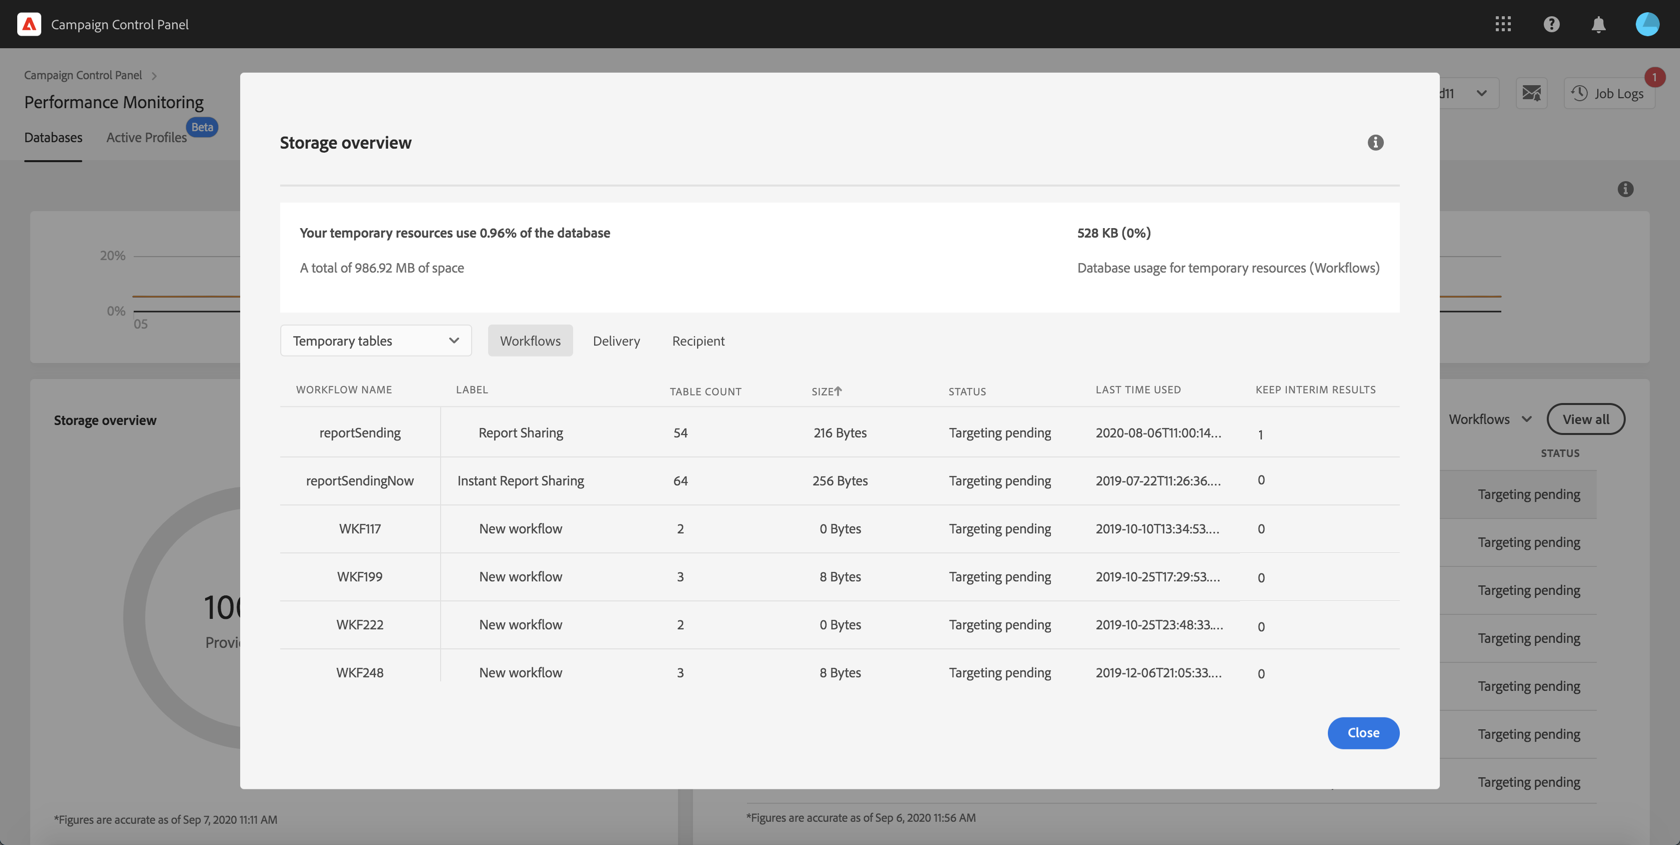
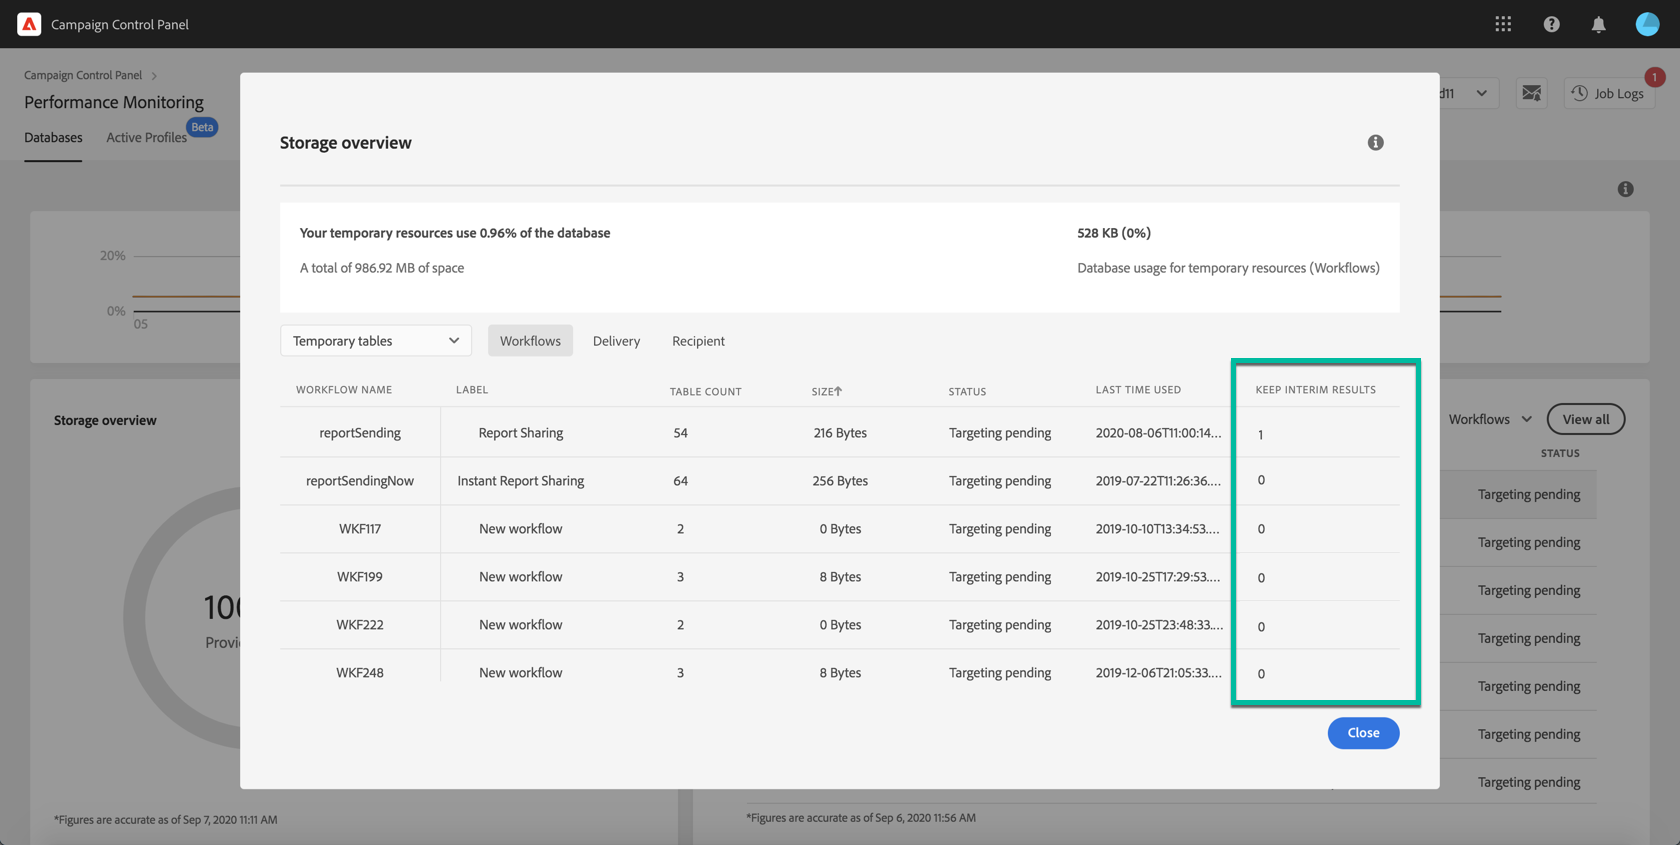
wkf monitoring draft

Changed region(s): [[0.7119, 0.4, 0.8667, 0.8308], [0.7429, 0.8308, 0.8357, 0.8615]]

diff --git a/help/performance-monitoring/using/workflow-monitoring.md b/help/performance-monitoring/using/workflow-monitoring.md
@@ -1,28 +1,41 @@
 ---
-title: About database monitoring
-description: Learn how to monitor workflows on your instances
+title: Monitor workflows' resources
+description: Learn how to monitor the resources generated by workflows on your instances
 feature: Control Panel
 role: Architect
 level: Experienced
 ---
-# Monitor workflows {#monitor-workflows}
+# Monitor workflows' resources {#monitor-workflows}
 
 ## Clean paused and completed workflows
 
-paused completed workflows leave temporary tables that consume space on database
-cp allows to clean those tables to free space and therefore improve performances
+When [!DNL Adobe Campaign] workflows are paused or completed, they leave temporary tables on your instances database that consume space and can lead to performance issues.
 
-Technically, executes the clean up technical workflow
+Control Panel allows you to identify those workflows and clean the temporary resources generated on your instances.
 
-process:
-1. Database
-2. Storage overview details
-3. Select temporary resources
-4. Clean > confirm
-5. In progress, estimated time displays
-6. Completion message
+>[!NOTE]
+>
+>Technically, this operation executes the **[!UICONTROL Database cleanup technical workflow]** that runs on your Campaign instance everyday (see [Campaign Standard](https://experienceleague.adobe.com/docs/campaign-standard/using/administrating/application-settings/technical-workflows.html#list-of-technical-workflows) and [Campaign Classic](https://experienceleague.adobe.com/docs/campaign-classic/using/monitoring-campaign-classic/data-processing/database-cleanup-workflow.html) documentation). 
 
-## Monitor workflows' parameters 
+To clean paused and completed workflows, follow these steps:
+
+1. Navigate to the **[!UICONTROL Performance monitoring]** card.
+
+1. In the **[!UICONTROL Databases]** tab, select the instance where you want to perform the operation.
+
+1. Access the **[!UICONTROL Storage overview]** details, then filter the list on **[!UICONTROL Temporary tables]**. Learn more on **[!UICONTROL Storage overview]** in [this page](database-storage-overview.md).
+
+    ![](assets/wkf-monitoring-list.png)
+
+1. All temporary tables generated on your instances by workflows and deliveries display. Click the **[!UICONTROL Clean now]** button to delete the resources generated by paused and completed workflows.
+
+    ![](assets/wkf-monitoring-clean.png)
+
+1. Once the operation is confirmed, you can track the estimated remaining time in the **[!UICONTROL Storage overview]** list.
+
+    ![](assets/wkf-monitoring-in-progress.png)
+
+<!--## Monitor workflows' parameters 
 
 some options on workflows consume space and lead to performance issues
 
@@ -32,3 +45,6 @@ deactivated by default. CP allows to monitor if some have been activated + to de
 * Show SQL- The option "Log SQL result" is checked. This could impact platform performances and fill in the log files on the server, which should not be on production.
 * Production no supervisor-Workflows with a "Production" flag, but no supervisor operator in the setup to be alerted if the workflow crash.
 * A notification/alert, when the temp tables occupy more than 25% of the total allotted DB size. (Example - 500GB of the 2TB).
+
+
+)-->

diff --git a/help/performance-monitoring/using/database-top-ten-resources.md b/help/performance-monitoring/using/database-top-ten-resources.md
@@ -26,14 +26,4 @@ Monitoring workflows and deliveries that are creating large temporary resources 
 >
 >Campaign Standard and Classic resources are also available at the end of this page to help you prevent database overload.
 
-The **[!UICONTROL View all]** button allows you to access detailed information on these temporary resources.  
-
-![](assets/database-top10-view.png)
-
-The value in the **[!UICONTROL Keep interim results]** column indicates if the option is enabled ("1") or diabled ("0") in Campaign. This option allows you to save the results of the transitions between the various activities of a workflow (see [Campaign Standard](https://experienceleague.adobe.com/docs/campaign-standard/using/managing-processes-and-data/executing-a-workflow/managing-execution-options.html) and [Campaign Classic](https://experienceleague.adobe.com/docs/campaign-classic/using/automating-with-workflows/introduction/workflow-best-practices.html#logs) documentation).
-
->[!IMPORTANT]
->
->This option must never be checked in a production workflow. It is used to analyze the results and is designed only for testing purposes and hence must be used only on development or staging environments.
->
->If the value in Control Panel indicates that the option is enabled for one of your workflows, we strongly recommend turning it off in Campaign.
+The **[!UICONTROL View all]** button allows you to access the **[!UICONTROL Storage overview]** details to get detailed information on these temporary resources. For more on this, refer to [this page](database-storage-overview.md).

diff --git a/help/performance-monitoring/using/database-storage-overview.md b/help/performance-monitoring/using/database-storage-overview.md
@@ -34,3 +34,15 @@ Click the **[!UICONTROL View details]** button to get more details on the differ
 Use the filter to refine your search and display tables from a specific asset type only. 
 
 ![](assets/database-storage-overview-filter.png)
+
+For workflows, an additional column (**[!UICONTROL Keep interim results]**) indicates if the option is enabled ("1") or diabled ("0") in Campaign. This option allows you to save the results of the transitions between the various activities of a workflow (see [Campaign Standard](https://experienceleague.adobe.com/docs/campaign-standard/using/managing-processes-and-data/executing-a-workflow/managing-execution-options.html) and [Campaign Classic](https://experienceleague.adobe.com/docs/campaign-classic/using/automating-with-workflows/introduction/workflow-best-practices.html#logs) documentation).
+
+![](assets/database-top10-view.png)
+
+>[!IMPORTANT]
+>
+>This option must never be checked in a production workflow. It is used to analyze the results and is designed only for testing purposes and hence must be used only on development or staging environments.
+>
+>If the value in Control Panel indicates that the option is enabled for one of your workflows, we strongly recommend turning it off in Campaign.
+
+Note that Control Panel allows you to monitor workflows and clean the generated temporary resources generated directly from this screen. Learn more in the [Monitor workflows' resources](workflow-monitoring.md) page.
